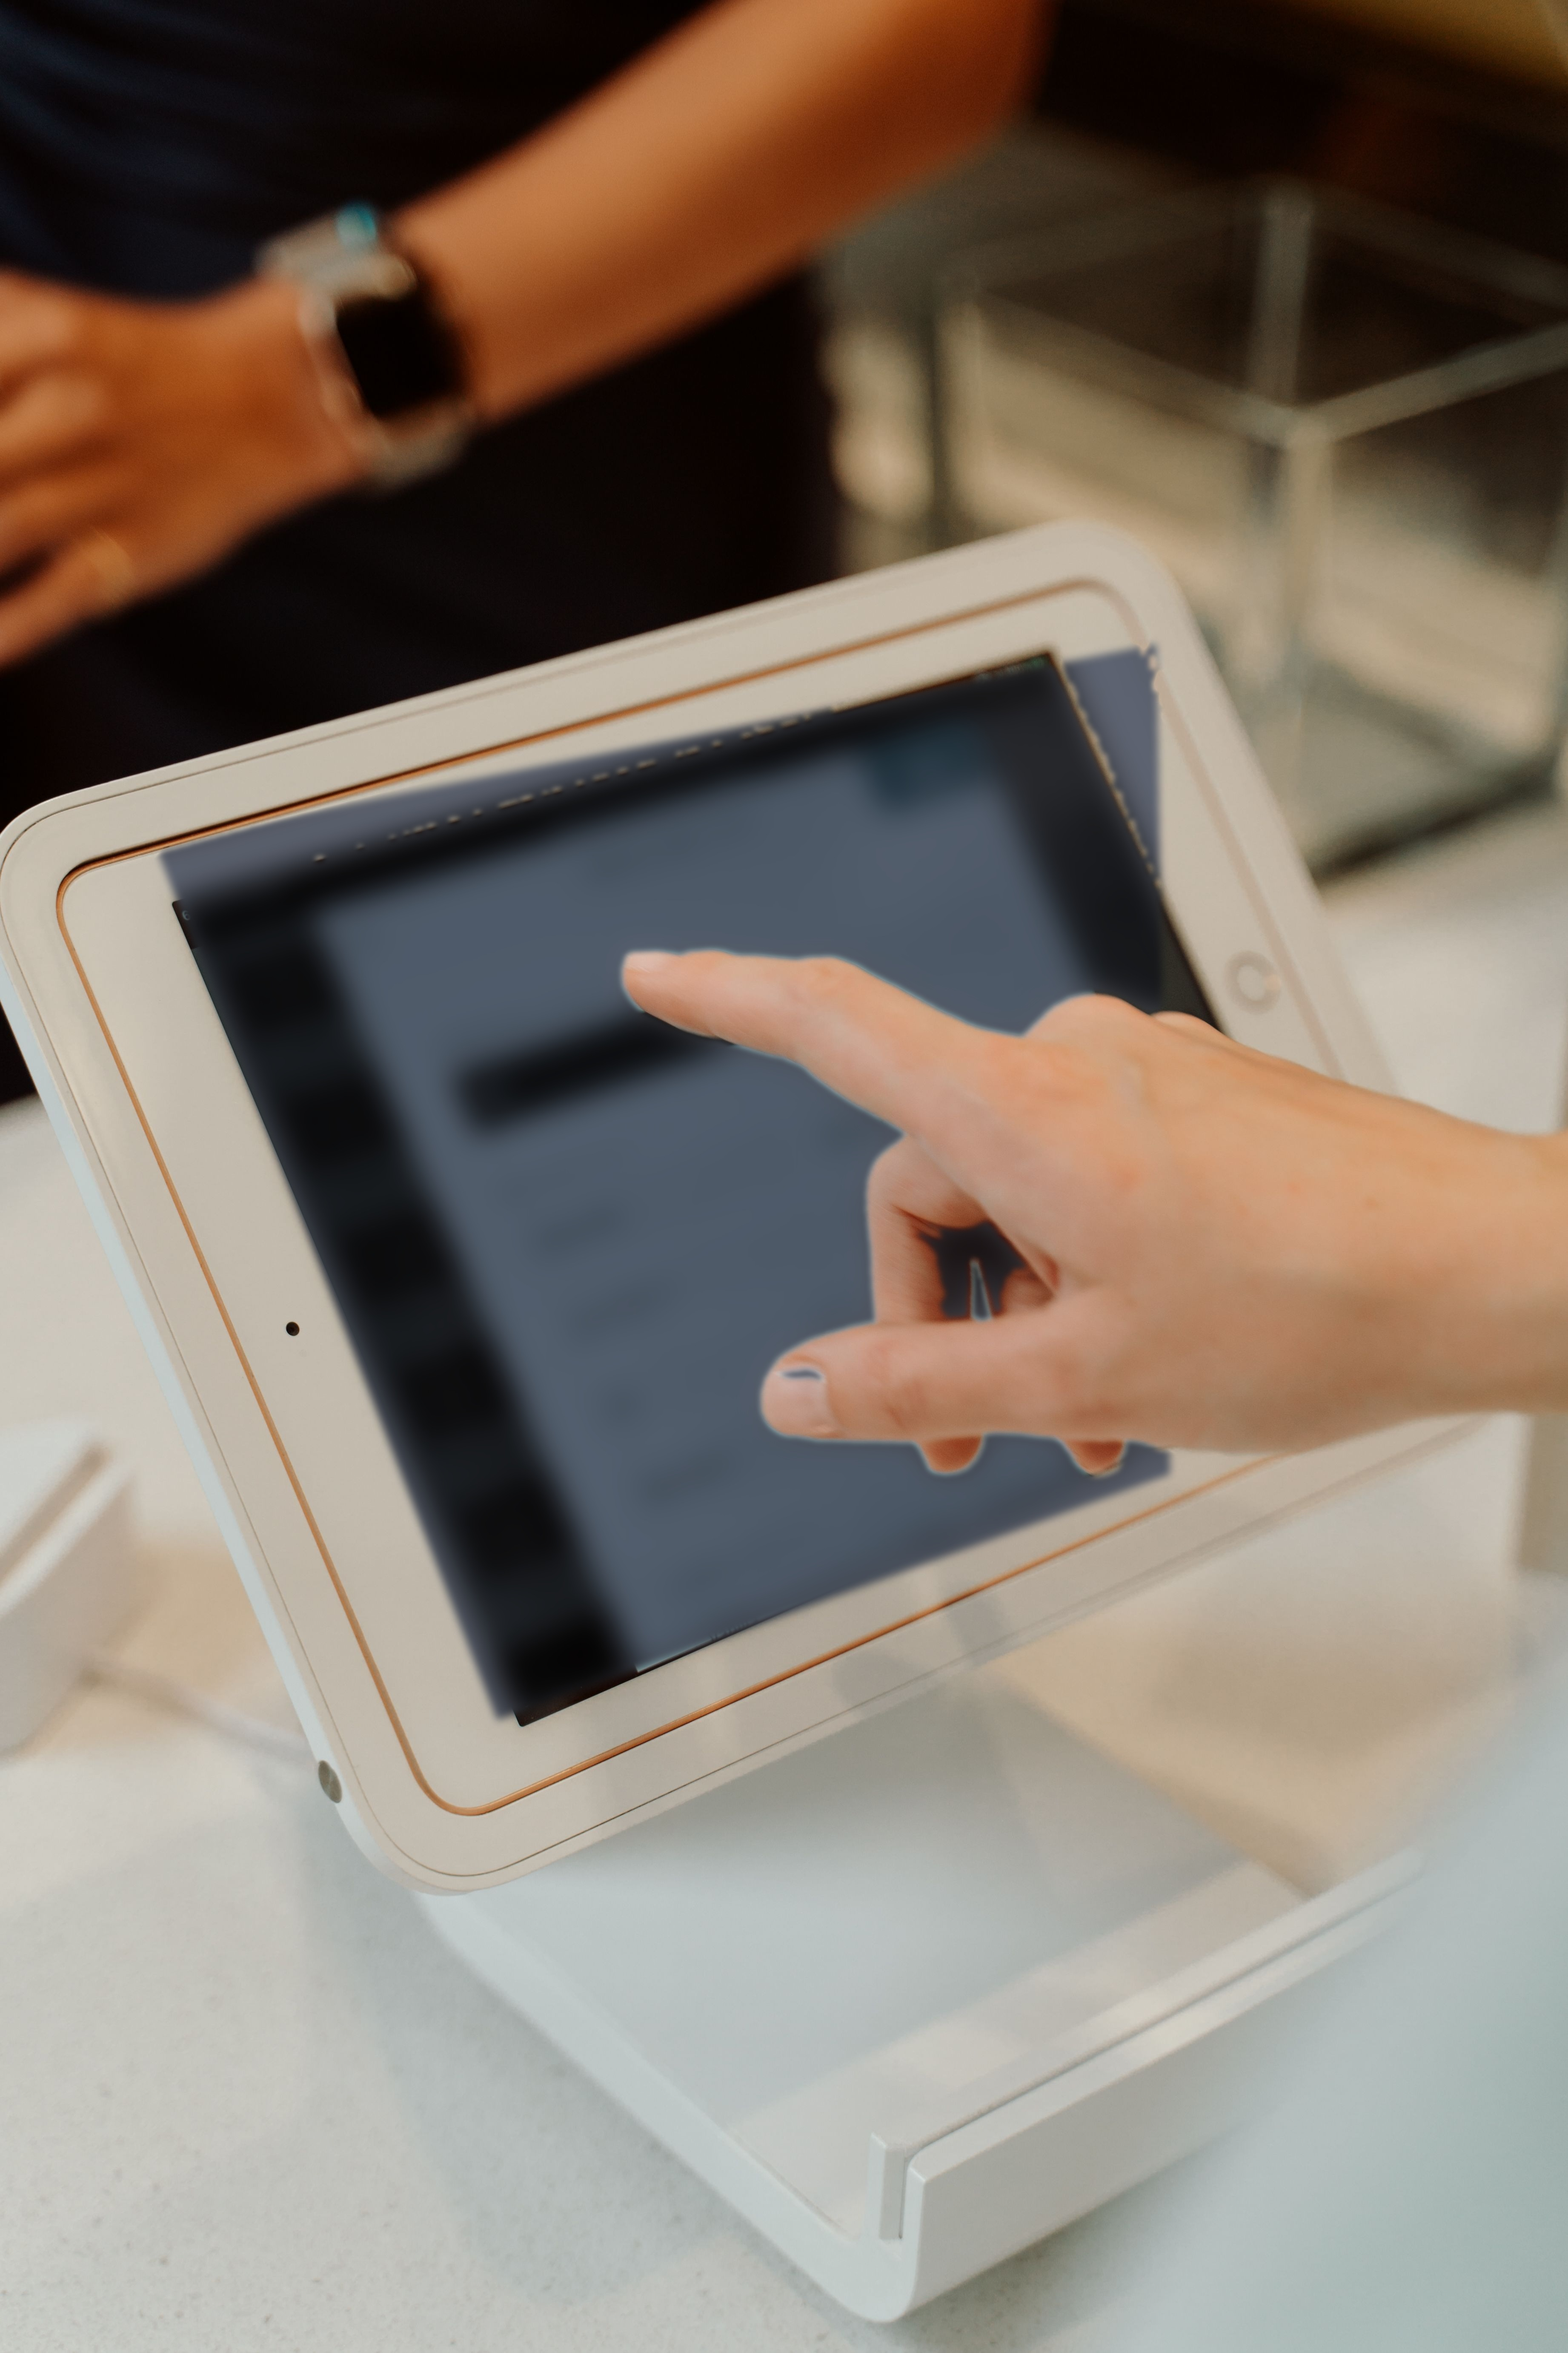
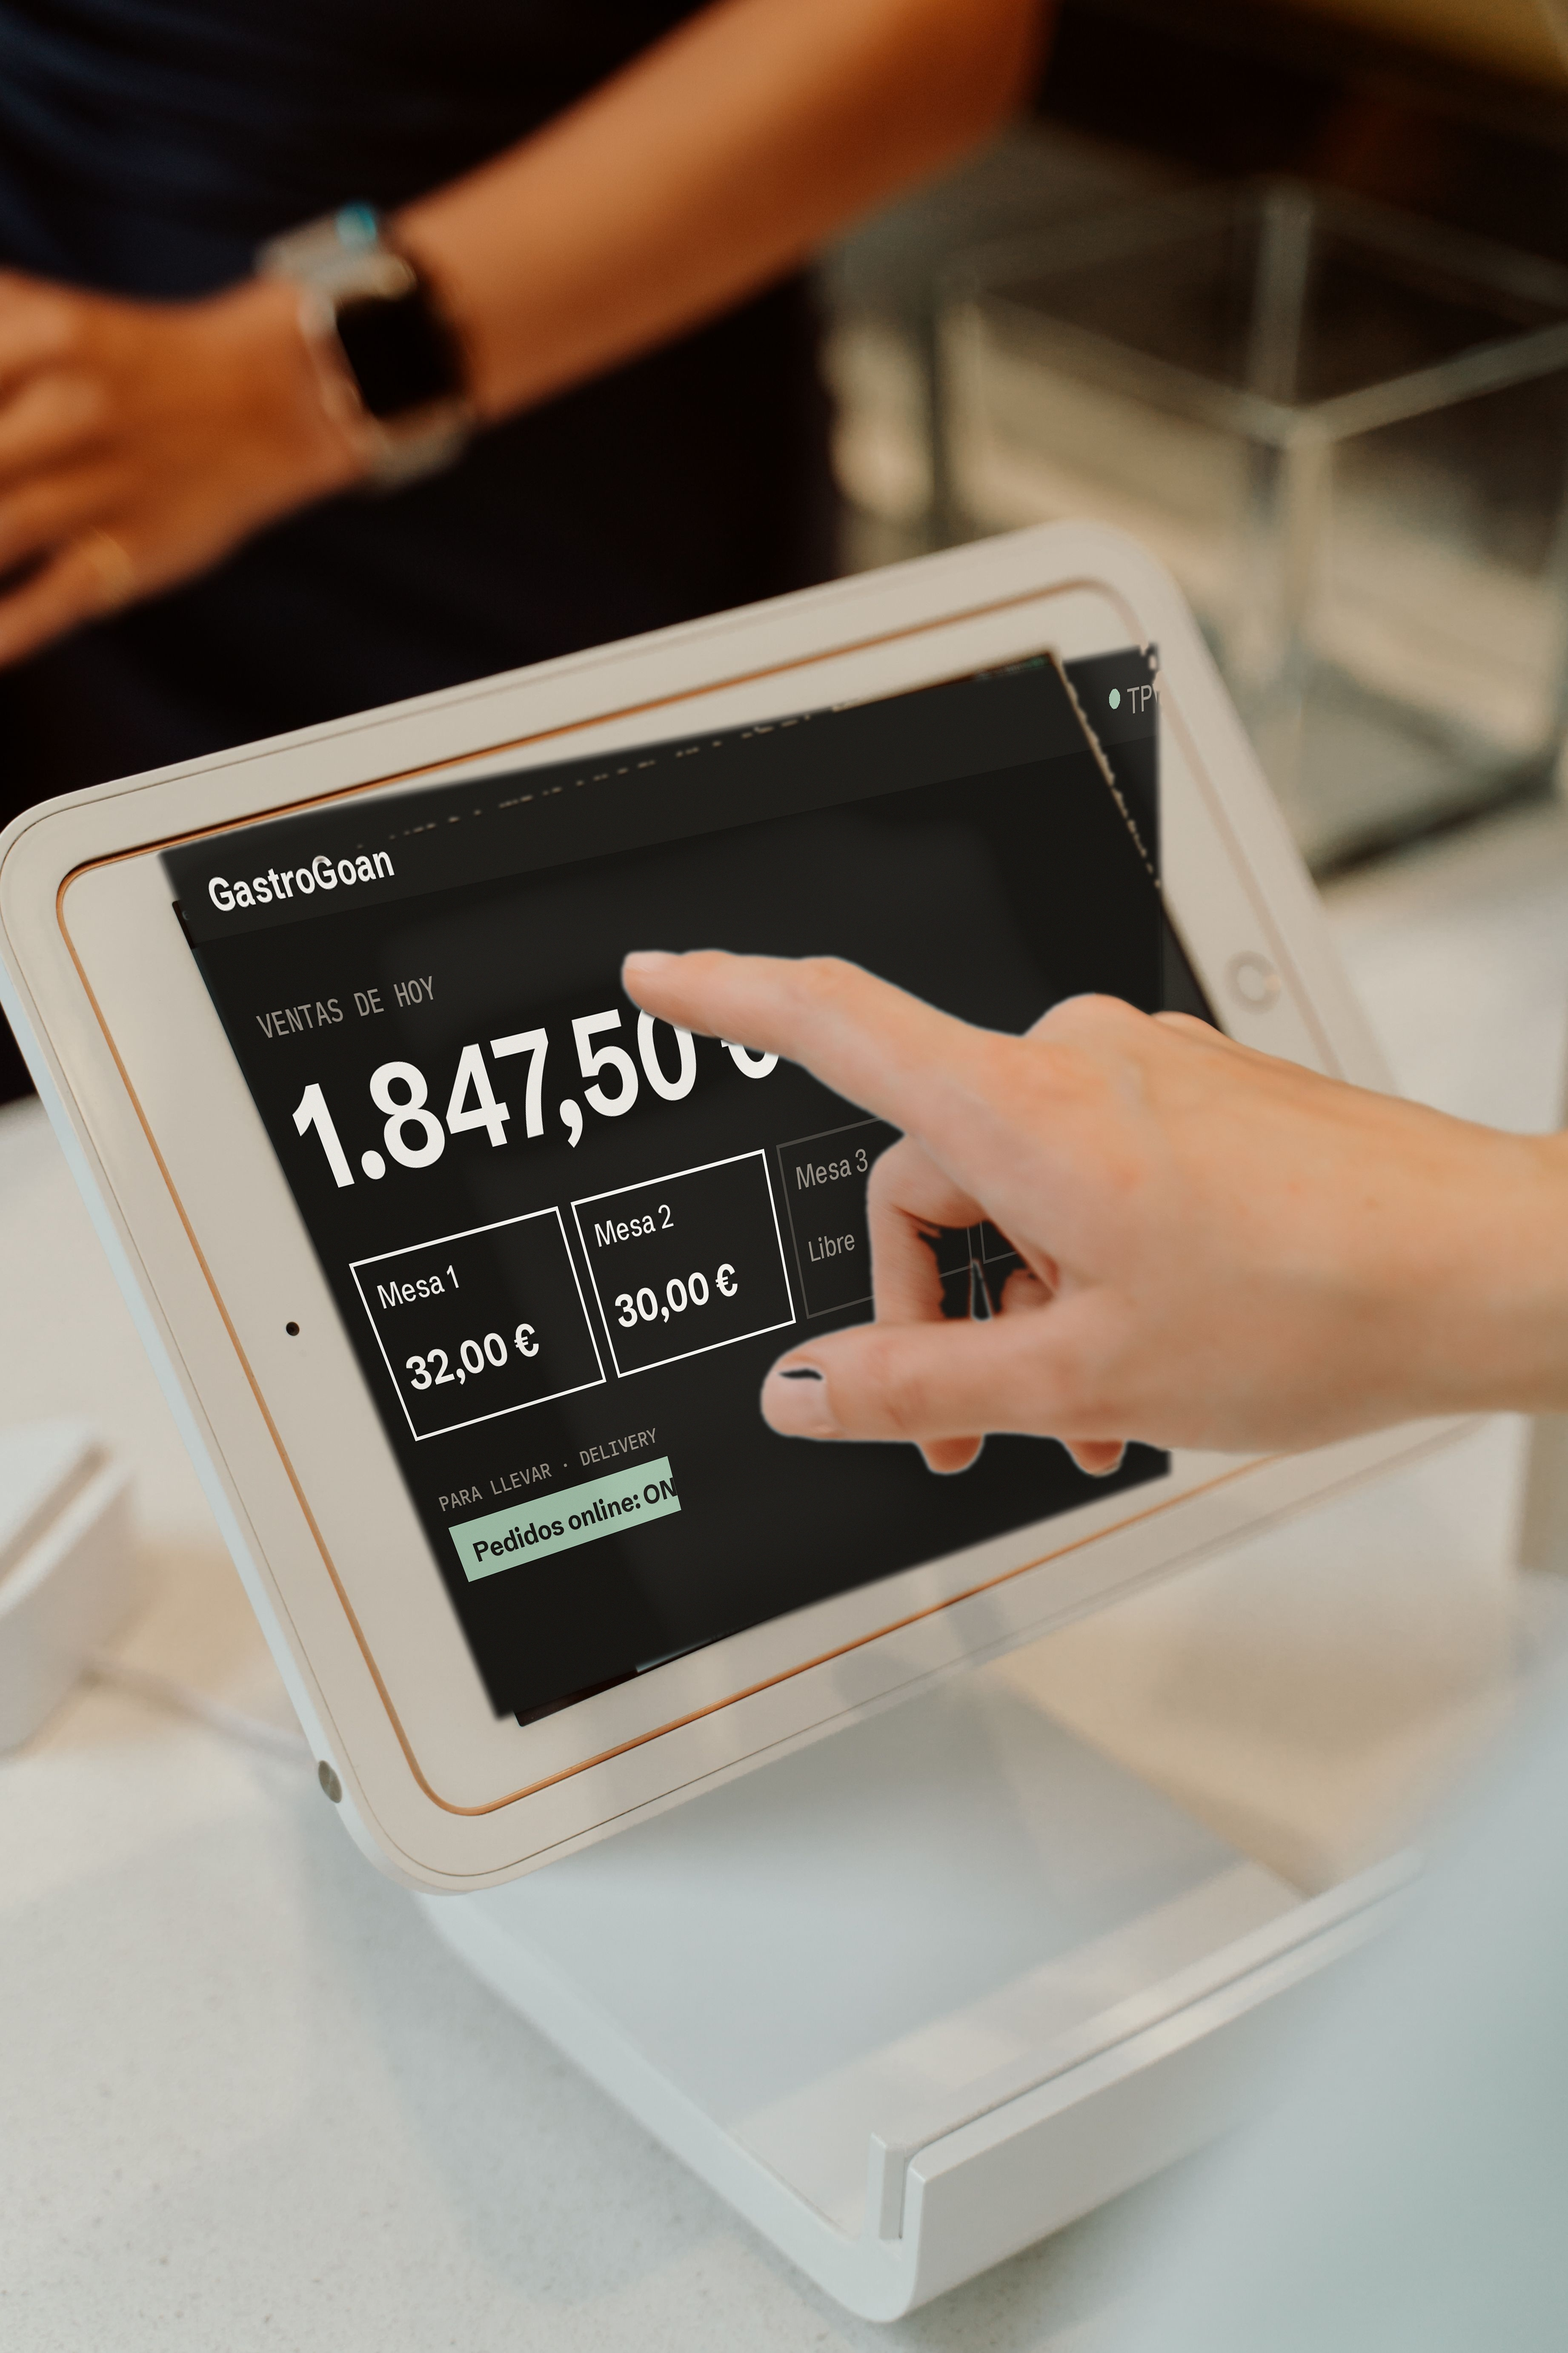
La tablet enseña GastroGoan, en perspectiva y nítida
El dueño lo dijo y tenía razón: la pantalla apagada con desenfoque se
veía BORROSA, y una pantalla emborronada en un anuncio parece un
error, no una decisión.

Dejarla como venía no era opción —se lee el software de otra empresa y
Meta puede tumbar el anuncio por marca ajena— así que en vez de tapar,
se sustituye: la pantalla de GastroGoan se dibuja con PIL y se deforma
a las cuatro esquinas del cristal. Queda nítida, y de paso el anuncio
pasa de esconder el producto de otro a enseñar el tuyo.

Tres cosas sin las cuales el montaje se delata:

- La mano va POR ENCIMA del panel. La piel se separa por color (dentro
  de una pantalla oscura es lo único cálido) en vez de recortar la
  silueta a mano, y se vuelve a componer arriba: el dedo sigue tocando
  el cristal.
- El cristal refleja. Lleva el brillo de la ventana cogido de la
  propia foto y el mismo grano que el resto; una pantalla plana y mate
  no existe.
- El panel se dibuja SIMPLE. Dentro del anuncio mide unos 600 px y muy
  escorado, así que el detalle fino no se ve y solo ensucia. Lo que
  tiene que leerse es el dinero.

Un fallo cazado por el camino: el reflejo se sacaba de la luminosidad
de la foto original, y eso arrastraba el TEXTO de la interfaz vieja —
se leía "Matcha Latte" y "MILK CHOOSE UP TO 6" flotando sobre las
mesas. Desenfocando la luminosidad antes de usarla solo sobreviven las
manchas grandes de luz, que es lo único que refleja un cristal.
[…]

Changed region(s): [[0.0936, 0.249, 0.7492, 0.747], [0.5931, 0.5291, 0.6555, 0.5603]]

diff --git a/anuncios/apagar-pantalla.py b/anuncios/apagar-pantalla.py
@@ -1,58 +1,137 @@
 #!/usr/bin/env python3
-"""Apaga la interfaz ajena de la foto del TPV, dejando la mano intacta.
+"""Pone GastroGoan dentro de la tablet de la foto, en perspectiva.
 
-Por qué existe: la foto elegida para el segundo anuncio enseña el software
+Por qué existe: la foto elegida para el segundo anuncio enseñaba el software
 de OTRA empresa — "Matcha Latte", precios en dólares, interfaz en inglés.
 Publicarla tal cual es pagar por anunciar a un competidor, y Meta puede
 tumbar el anuncio por marca ajena.
 
-Cómo lo resuelve, y por qué así: en vez de recortar la silueta de la mano a
-mano (que es donde un montaje siempre se delata), la piel se separa POR
-COLOR. Dentro de una pantalla cian y negra, el dedo es lo único cálido, así
-que un filtro de tono lo aísla solo y con el borde natural de la foto.
+La primera solución fue apagar el cristal con un desenfoque, y se veía
+BORROSO: un anuncio con una pantalla emborronada parece un error, no una
+decisión. Así que en vez de tapar, se sustituye — la app se dibuja aquí
+mismo y se deforma a las cuatro esquinas del cristal. Queda nítida.
 
-La pantalla no se deja negra del todo: un cristal liso y apagado parece un
-aparato desenchufado y rompe la escena. Se deja encendida pero ilegible.
+Dos detalles sin los cuales el montaje se delata:
+
+  · LA MANO VA POR ENCIMA. La piel se separa por COLOR (dentro de una
+    pantalla oscura es lo único cálido) en vez de recortar la silueta a
+    mano, que es donde siempre se nota el pegote. Luego se vuelve a poner
+    encima del panel, así que el dedo sigue tocando el cristal.
+
+  · EL CRISTAL REFLEJA. Una pantalla perfectamente plana y mate no existe:
+    se le añade el brillo diagonal de la luz de la ventana, cogido de la
+    propia foto, y un pelín de grano. Sin eso parece un recorte pegado.
 
     python3 anuncios/apagar-pantalla.py
 """
-from PIL import Image, ImageDraw, ImageFilter, ImageChops
+from PIL import Image, ImageDraw, ImageFilter, ImageChops, ImageFont
 import numpy as np
 
 ENTRADA = 'anuncios/fotos/tpv-a.jpg'
 SALIDA  = 'anuncios/fotos/tpv-limpio.jpg'
-# Las cuatro esquinas del cristal, medidas sobre la foto a tamaño completo.
-# Van un pelín por fuera del borde visible: si se quedan cortas asoma la
-# interfaz por los cantos, que es peor que pisar un poco el marco.
+# Las cuatro esquinas del cristal, medidas sobre la foto a tamaño completo,
+# en el orden: arriba-izq, arriba-der, abajo-der, abajo-izq.
 QUAD = [(362, 1978), (2716, 1512), (2748, 3462), (1168, 4040)]
 
+TINTA   = (18, 16, 13)
+CREMA   = (242, 239, 233)
+OLIVA   = (157, 187, 164)
+GRIS    = (140, 133, 122)
+
+def panel(w=1600, h=1200):
+    """La pantalla de GastroGoan, dibujada a lo grande y de frente.
+
+    Se dibuja SIMPLE a propósito: dentro del anuncio este panel acaba
+    midiendo unos 600 px y muy escorado, así que los detalles finos no se
+    ven y solo estorban. Lo que tiene que leerse es el dinero."""
+    im = Image.new('RGB', (w, h), TINTA)
+    d = ImageDraw.Draw(im)
+    sg7 = lambda s: ImageFont.truetype('assets/fonts/SchibstedGrotesk-700.ttf', s)
+    sg5 = lambda s: ImageFont.truetype('assets/fonts/SchibstedGrotesk-500.ttf', s)
+    pm  = lambda s: ImageFont.truetype('assets/fonts/IBMPlexMono-500.ttf', s)
+
+    d.rectangle([0, 0, w, 96], fill=(26, 24, 20))
+    d.text((44, 30), 'GastroGoan', font=sg7(44), fill=CREMA)
+    d.ellipse([w-92, 38, w-72, 58], fill=OLIVA)
+    d.text((w-58, 30), 'TPV', font=sg5(38), fill=GRIS)
+
+    d.text((44, 168), 'VENTAS DE HOY', font=pm(34), fill=GRIS)
+    d.text((40, 214), '1.847,50 €', font=sg7(168), fill=CREMA)
+
+    # Cuatro mesas. Dos ocupadas (borde claro y su importe) y dos libres:
+    # es lo que hace que se lea como un TPV en pleno servicio y no como
+    # una pantalla de inicio.
+    mesas = [('1', '32,00 €'), ('2', '30,00 €'), ('3', None), ('4', None)]
+    x, y, cw, ch, g = 44, 470, 355, 250, 24
+    for i, (num, importe) in enumerate(mesas):
+        cx = x + (i % 4) * (cw + g)
+        borde = CREMA if importe else (58, 54, 48)
+        d.rectangle([cx, y, cx+cw, y+ch], outline=borde, width=5)
+        d.text((cx+26, y+24), 'Mesa ' + num, font=sg5(42), fill=CREMA if importe else GRIS)
+        if importe:
+            d.text((cx+26, y+120), importe, font=sg7(64), fill=CREMA)
+        else:
+            d.text((cx+26, y+130), 'Libre', font=sg5(40), fill=GRIS)
+
+    d.text((44, 800), 'PARA LLEVAR · DELIVERY', font=pm(32), fill=GRIS)
+    d.rectangle([44, 860, 44+430, 860+92], fill=OLIVA)
+    d.text((72, 884), 'Pedidos online: ON', font=sg7(44), fill=TINTA)
+    return im
+
+def coeffs(destino, origen):
+    """Coeficientes de la transformación de perspectiva de PIL.
+
+    PIL va al revés de lo que uno espera: mapea cada píxel de SALIDA a uno
+    de ENTRADA, así que hay que darle el sistema en ese sentido."""
+    A = []
+    for (xd, yd), (xo, yo) in zip(destino, origen):
+        A.append([xd, yd, 1, 0, 0, 0, -xo*xd, -xo*yd])
+        A.append([0, 0, 0, xd, yd, 1, -yo*xd, -yo*yd])
+    A = np.asarray(A, dtype=np.float64)
+    B = np.asarray(origen, dtype=np.float64).reshape(8)
+    return np.linalg.solve(A, B)
+
 im = Image.open(ENTRADA).convert('RGB')
+W, H = im.size
 
-m_quad = Image.new('L', im.size, 0)
+p = panel()
+warp = Image.new('RGB', (W, H))
+warp.paste(p.transform((W, H), Image.PERSPECTIVE,
+                       coeffs(QUAD, [(0,0), (p.width,0), (p.width,p.height), (0,p.height)]),
+                       Image.BICUBIC))
+
+# El cristal. El canto va difuminado: un borde recto sobre el marco blanco
+# delata el rectángulo pegado.
+m_quad = Image.new('L', (W, H), 0)
 ImageDraw.Draw(m_quad).polygon(QUAD, fill=255)
-m_quad = m_quad.filter(ImageFilter.GaussianBlur(9))
+m_quad = m_quad.filter(ImageFilter.GaussianBlur(7))
 
+# La piel, para devolver la mano por encima.
 a = np.asarray(im).astype(np.int16)
 R, G, B = a[:, :, 0], a[:, :, 1], a[:, :, 2]
 piel = ((R > 112) & (G > 55) & (B > 30) & (R > G + 18) &
         (G >= B - 6) & ((R - B) > 32)).astype(np.uint8) * 255
-# Se engorda y se difumina: así el recorte no deja un filo duro alrededor
-# del dedo, que es lo primero que delata un montaje.
 m_piel = (Image.fromarray(piel, 'L')
-          .filter(ImageFilter.MaxFilter(9))
-          .filter(ImageFilter.GaussianBlur(6)))
+          .filter(ImageFilter.MaxFilter(7))
+          .filter(ImageFilter.GaussianBlur(4)))
 
-m = ImageChops.subtract(m_quad, m_piel)
+# El reflejo del cristal, cogido de la luminosidad de la foto original: la
+# ventana que se refleja en la pantalla real sigue estando ahí.
+#
+# ⚠ La luminosidad hay que DESENFOCARLA fuerte antes de usarla. Sin eso, el
+# brillo arrastra el texto de la interfaz vieja y la vuelve a dibujar encima
+# del panel: se leía "Matcha Latte" y "MILK CHOOSE UP TO 6" flotando sobre
+# las mesas. Desenfocada solo sobreviven las manchas grandes de luz, que es
+# lo único que de verdad refleja un cristal.
+lum = np.asarray(im.convert('L').filter(ImageFilter.GaussianBlur(70))).astype(np.float32) / 255.0
+brillo = np.clip((lum - 0.58) * 1.9, 0, 1)[:, :, None]
+wa = np.asarray(warp).astype(np.float32)
+wa = wa + brillo * 76                       # el reflejo aclara
+wa = wa * 0.93 + 8                          # la pantalla no es un foco
+ruido = np.random.normal(0, 3.2, wa.shape)  # grano, como el resto de la foto
+warp = Image.fromarray(np.clip(wa + ruido, 0, 255).astype(np.uint8), 'RGB')
 
-scr = im.filter(ImageFilter.GaussianBlur(34))
-s = np.asarray(scr).astype(np.float32)
-s = s.mean(axis=2, keepdims=True) * 0.74 + s * 0.26   # desatura
-s *= 0.5                                              # oscurece
-s[:, :, 2] *= 1.25                                    # tono frío de pantalla
-s[:, :, 1] *= 1.08
-scr = Image.fromarray(np.clip(s, 0, 255).astype(np.uint8), 'RGB')
-
-out = Image.composite(scr, im, m)
-out.save(SALIDA, quality=93)
-out.resize((out.width // 4, out.height // 4)).save('/tmp/limpio.png')
+out = Image.composite(warp, im, ImageChops.subtract(m_quad, m_piel))
+out.save(SALIDA, quality=94)
+out.resize((W // 4, H // 4)).save('/tmp/limpio.png')
 print(f'✅ {SALIDA}')
